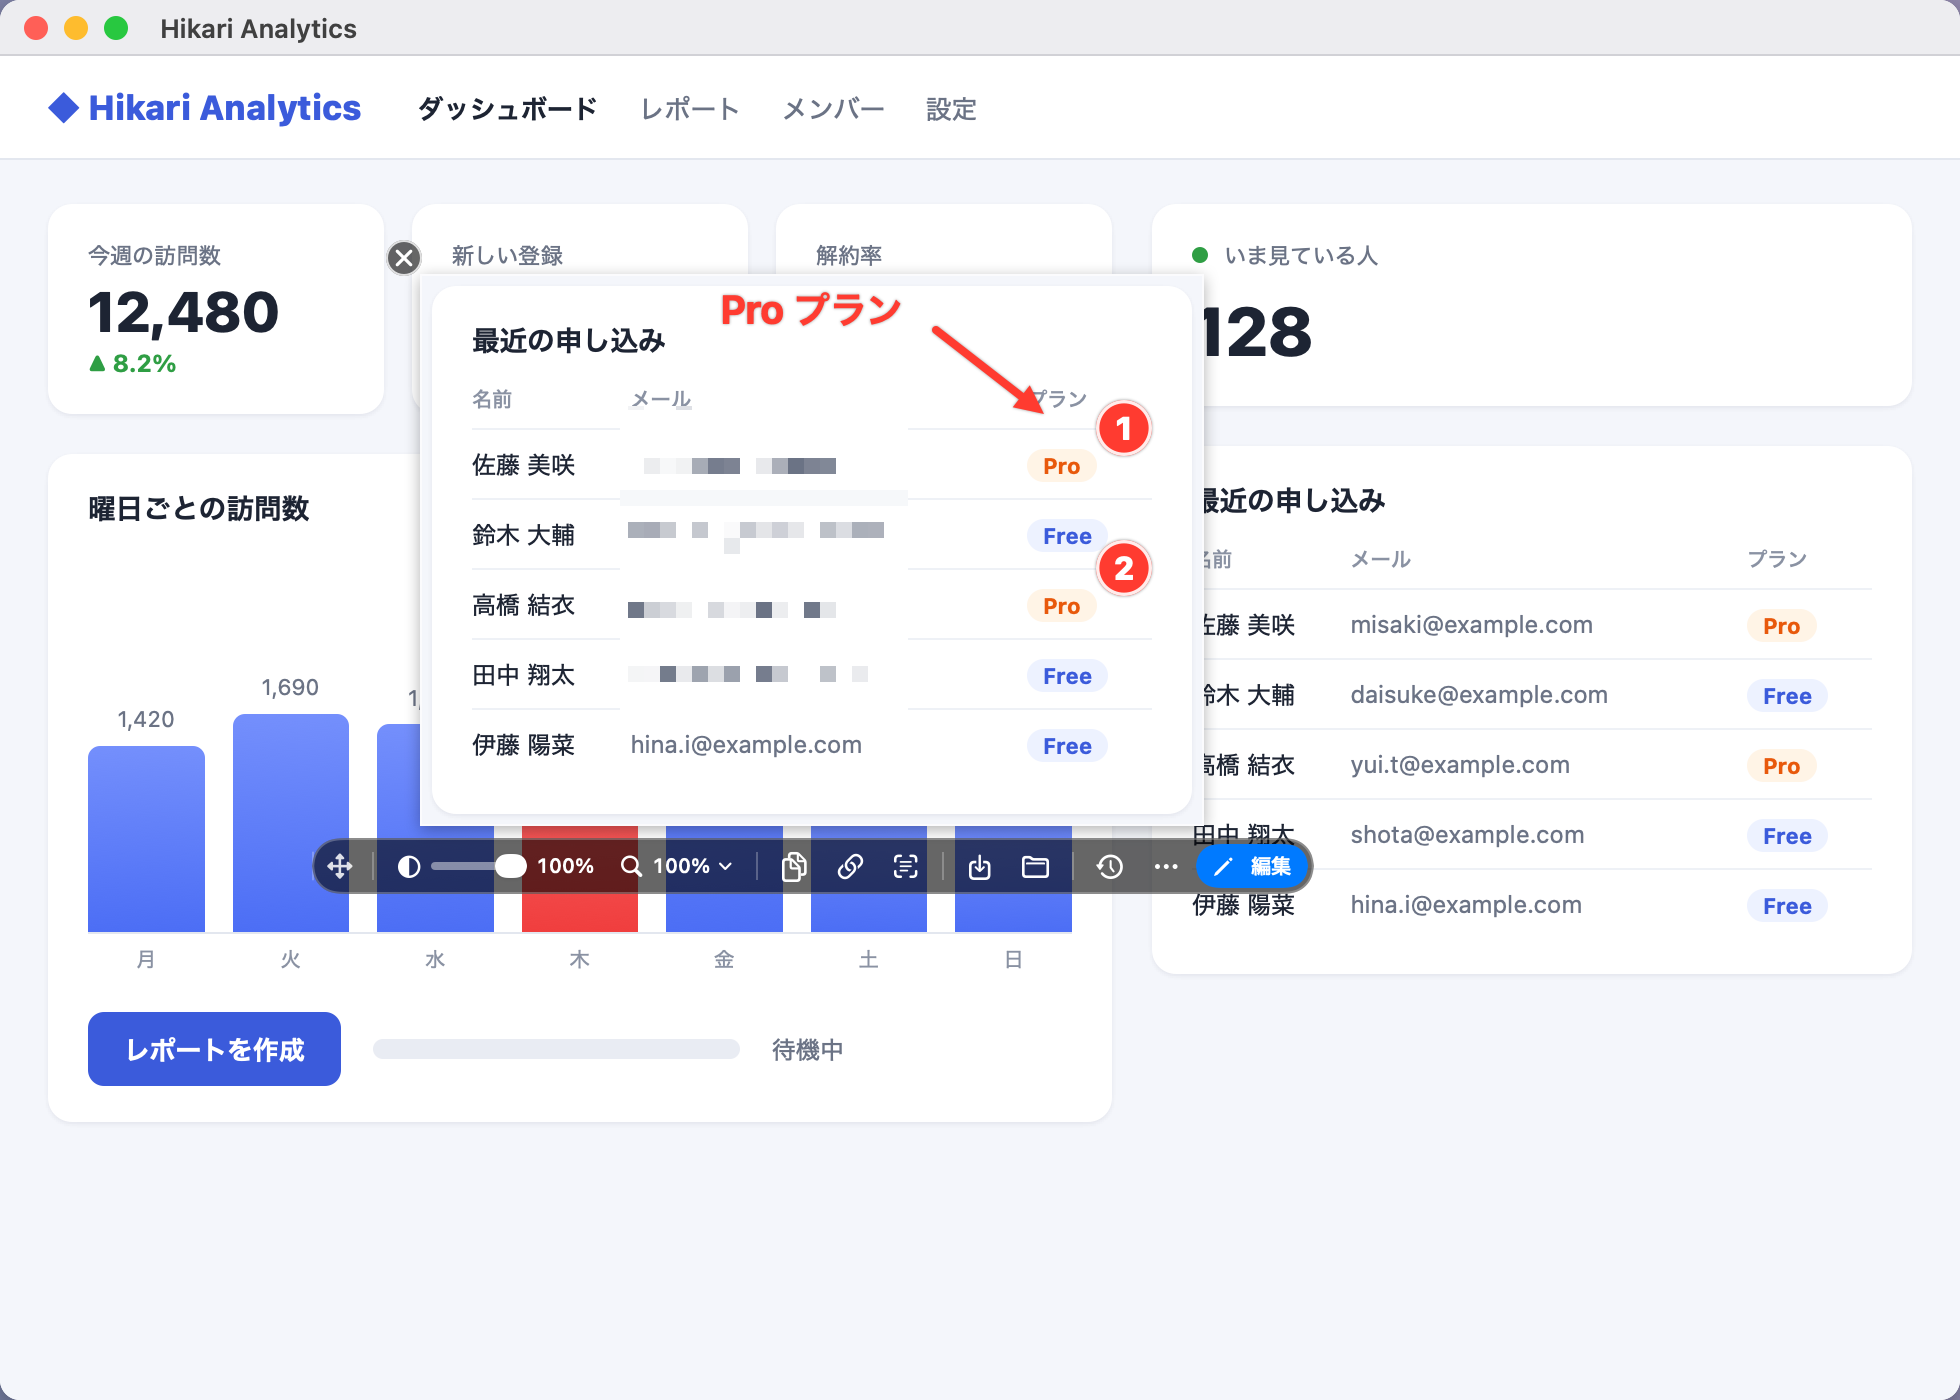
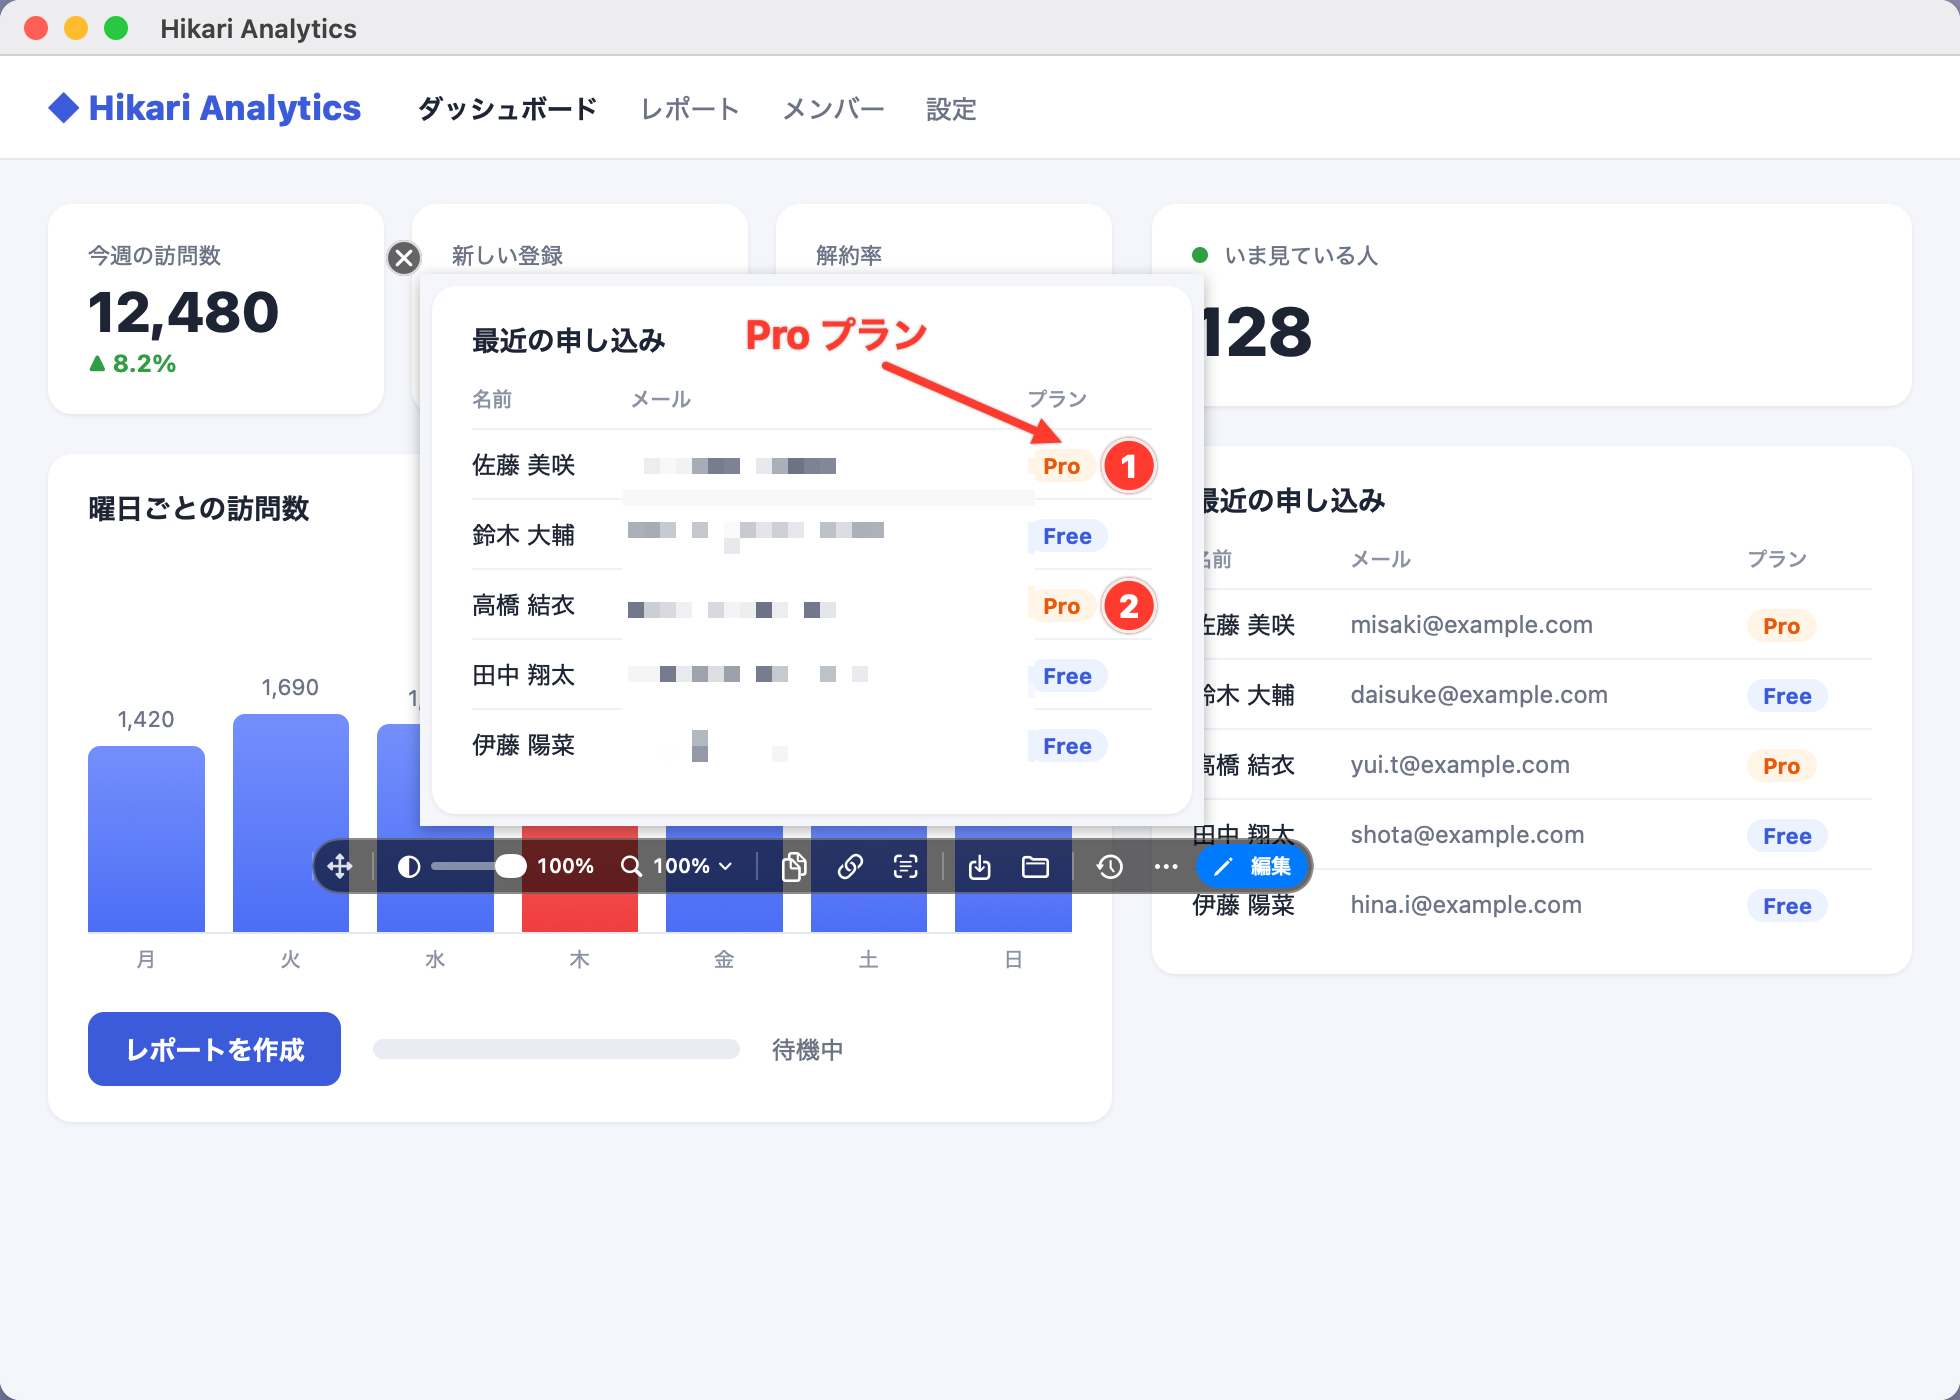
docs: README の見本の書き込む位置を、ページの部品から測る
画面の大きさを変えたあと、edit.gif・hero.png の書き込み（モザイク・番号・文字・矢印）が、
浮かせた画像の左上からの決め打ちの座標のままでずれていた（番号が Free の行に付く・最後の行のメールが隠れないなど）。

- ページの部品をまとめて測る frames(of:) を足す（見出しのように横幅いっぱいの部品は、中の文字の範囲を測る）
- モザイクはメールの欄すべて、番号は Pro のバッジの右、文字は見出しの右、矢印は文字から 1 つ目の Pro のバッジへ
- 浮かせた画像を動かした量を覚えておき、ページで測った位置を画像の上の位置に直す
- docs/images の絵を作り直す

Changed region(s): [[0.3735, 0.1843, 0.5291, 0.3071], [0.5291, 0.2764, 0.5913, 0.4607], [0.3112, 0.5221, 0.4357, 0.5529]]

diff --git a/scripts/readme-images/main.swift b/scripts/readme-images/main.swift
@@ -124,14 +124,25 @@ final class SamplePage: NSObject, WKNavigationDelegate {
         loaded = nil
     }
 
-    /// ページの中の id の部品の範囲（見本の窓の左上からの位置。ポイント。上の帯の分を足す）。
-    /// ドラッグする範囲・押す場所を、決め打ちの座標ではなくページから測る（ページの見た目を変えても、ずれないように）
-    func frame(ofElement id: String) async throws -> CGRect {
-        let script = "(() => { const r = document.getElementById('\(id)').getBoundingClientRect(); return [r.left, r.top, r.width, r.height]; })()"
-        guard let values = try await webView.evaluateJavaScript(script) as? [Double], values.count == 4 else {
-            throw ReadmeImagesError.pageFailed("no element #\(id)")
+    /// ページの中で CSS の selector に当てはまる部品の範囲（ページの上から順。見本の窓の左上からの位置。ポイント。上の帯の分を足す）。
+    /// ドラッグする範囲・押す場所・書き込む場所を、決め打ちの座標ではなくページから測る（ページの見た目や画面の大きさを変えても、ずれないように）。
+    /// textOnly なら、部品の枠ではなく中の文字の範囲を測る（見出しのように、枠が横幅いっぱいに広がる部品で、文字の右を知りたいとき）
+    func frames(of selector: String, textOnly: Bool = false) async throws -> [CGRect] {
+        let measure = textOnly
+            ? "{ const range = document.createRange(); range.selectNodeContents(e); return range.getBoundingClientRect(); }"
+            : "e.getBoundingClientRect()"
+        let script = "Array.from(document.querySelectorAll('\(selector)')).flatMap(e => { const r = (() => \(measure))(); return [r.left, r.top, r.width, r.height]; })"
+        guard let values = try await webView.evaluateJavaScript(script) as? [Double], !values.isEmpty, values.count % 4 == 0 else {
+            throw ReadmeImagesError.pageFailed("no element \(selector)")
         }
-        return CGRect(x: values[0], y: values[1] + Stage.titleBarHeight, width: values[2], height: values[3])
+        return stride(from: 0, to: values.count, by: 4).map {
+            CGRect(x: values[$0], y: values[$0 + 1] + Stage.titleBarHeight, width: values[$0 + 2], height: values[$0 + 3])
+        }
+    }
+
+    /// ページの中の id の部品の範囲（frames(of:) の 1 つだけのもの）
+    func frame(ofElement id: String) async throws -> CGRect {
+        try await frames(of: "#\(id)")[0]
     }
 
     /// state のときのページを、renderScale 倍の画像にする（同じ状態は使い回す）
@@ -607,6 +618,8 @@ final class ReadmeImages {
     var overlay = Overlay(mouse: Stage.point(startPoint.x, startPoint.y))
     /// キャプチャの場面で浮かせ、書き込みの場面で使う画像
     var pin: PinController?
+    /// 浮かせた画像を、撮った場所から動かした量（スクリーン座標）。書き込みの場面で、ページで測った位置を画像の上の位置に直すのに使う
+    var pinOffset = CGPoint.zero
 
     func run() async throws {
         try FileManager.default.createDirectory(at: outputFolder, withIntermediateDirectories: true)
@@ -708,7 +721,8 @@ final class ReadmeImages {
         await move(to: grab, seconds: 0.4)
         overlay.cursor = .closedHand
         let origin = pin.panel.frame.origin
-        for offset in path(from: .zero, to: CGPoint(x: -360, y: 80), seconds: 0.9) {
+        pinOffset = CGPoint(x: -360, y: 80)
+        for offset in path(from: .zero, to: pinOffset, seconds: 0.9) {
             pin.panel.setFrameOrigin(CGPoint(x: origin.x + offset.x, y: origin.y + offset.y))
             overlay.mouse = CGPoint(x: grab.x + offset.x, y: grab.y + offset.y)
             await snap()
@@ -736,10 +750,17 @@ final class ReadmeImages {
         guard let pin else { throw ReadmeImagesError.captureFailed("no pin") }
         let window = pin.panel
         let canvas = pin.canvas
-        // 画像の左上からの位置（ポイント）を、スクリーン座標にする
-        func at(_ x: CGFloat, _ y: CGFloat) -> CGPoint {
-            CGPoint(x: window.frame.minX + x, y: window.frame.maxY - y)
+        // 見本の窓の左上からの位置（ページで測ったもの）を、動かした画像の上のスクリーン座標にする
+        func onPin(_ x: CGFloat, _ y: CGFloat) -> CGPoint {
+            let point = Stage.point(x, y)
+            return CGPoint(x: point.x + pinOffset.x, y: point.y + pinOffset.y)
         }
+        // 書き込む場所は、表（最近の申し込み）の部品の位置から決める（画面の大きさを変えても、ずれないように）
+        let card = try await page.frame(ofElement: "signups")
+        // 見出しは横幅いっぱいの部品なので、文字の範囲を測る
+        let title = try await page.frames(of: "#signups h2", textOnly: true)[0]
+        let mails = try await page.frames(of: "#signups td.mail").reduce(CGRect.null) { $0.union($1) }
+        let pros = try await page.frames(of: "#signups .plan.pro")
         func send(_ type: NSEvent.EventType, _ point: CGPoint, clicks: Int = 1) {
             let event = mouseEvent(type, at: point, in: window, clickCount: clicks)
             switch type {
@@ -766,11 +787,11 @@ final class ReadmeImages {
         }
 
         overlay.cursor = .arrow
-        overlay.mouse = at(200, 200)
+        overlay.mouse = onPin(card.midX, card.midY + 40)
         await snap(hold: 0.8)
 
         // ダブルクリックで編集モード
-        let center = at(197, 160)
+        let center = onPin(card.midX, card.midY)
         await move(to: center, seconds: 0.4)
         send(.leftMouseDown, center)
         send(.leftMouseUp, center)
@@ -778,21 +799,22 @@ final class ReadmeImages {
         send(.leftMouseUp, center, clicks: 2)
         await snap(hold: 0.9)
 
-        // M: モザイクでメールアドレスを隠す
+        // M: モザイクでメールアドレス（表のメールの欄すべて）を隠す
         overlay.cursor = .crosshair
         await press("m", keyCode: 46)
-        await drag(from: at(100, 66), to: at(244, 228), seconds: 0.7)
+        await drag(from: onPin(mails.minX - 4, mails.minY + 2), to: onPin(mails.maxX + 4, mails.maxY - 2), seconds: 0.7)
 
-        // N: Pro の行に番号
+        // N: Pro の行に番号（Pro のバッジの右）
         await press("n", keyCode: 45)
-        await click(at(352, 77))
-        await click(at(352, 147))
+        for pro in pros {
+            await click(onPin(pro.maxX + 16, pro.midY))
+        }
         await snap(hold: 0.3)
 
-        // T: 文字（1 文字ずつ入れる）
+        // T: 文字（表の見出しの右。1 文字ずつ入れる）
         await press("t", keyCode: 17)
         overlay.cursor = .iBeam
-        await click(at(150, 6))
+        await click(onPin(title.maxX + 40, title.minY - 6))
         for character in "Pro プラン" {
             (window.firstResponder as? NSTextView)?.insertText(String(character), replacementRange: NSRange(location: NSNotFound, length: 0))
             await snap(hold: 0.09)
@@ -800,10 +822,10 @@ final class ReadmeImages {
         canvas.commitPendingText()
         await snap(hold: 0.4)
 
-        // A: 矢印
+        // A: 矢印（文字の右下から、1 つ目の Pro のバッジへ）
         overlay.cursor = .crosshair
         await press("a", keyCode: 0)
-        await drag(from: at(258, 28), to: at(312, 70), seconds: 0.5)
+        await drag(from: onPin(title.maxX + 110, title.maxY + 4), to: onPin(pros[0].midX, pros[0].minY - 3), seconds: 0.5)
 
         // ⌘C でコピー（クリップボードには入れず、知らせだけ出す） → ⌘E で編集を終える
         overlay.cursor = .arrow
